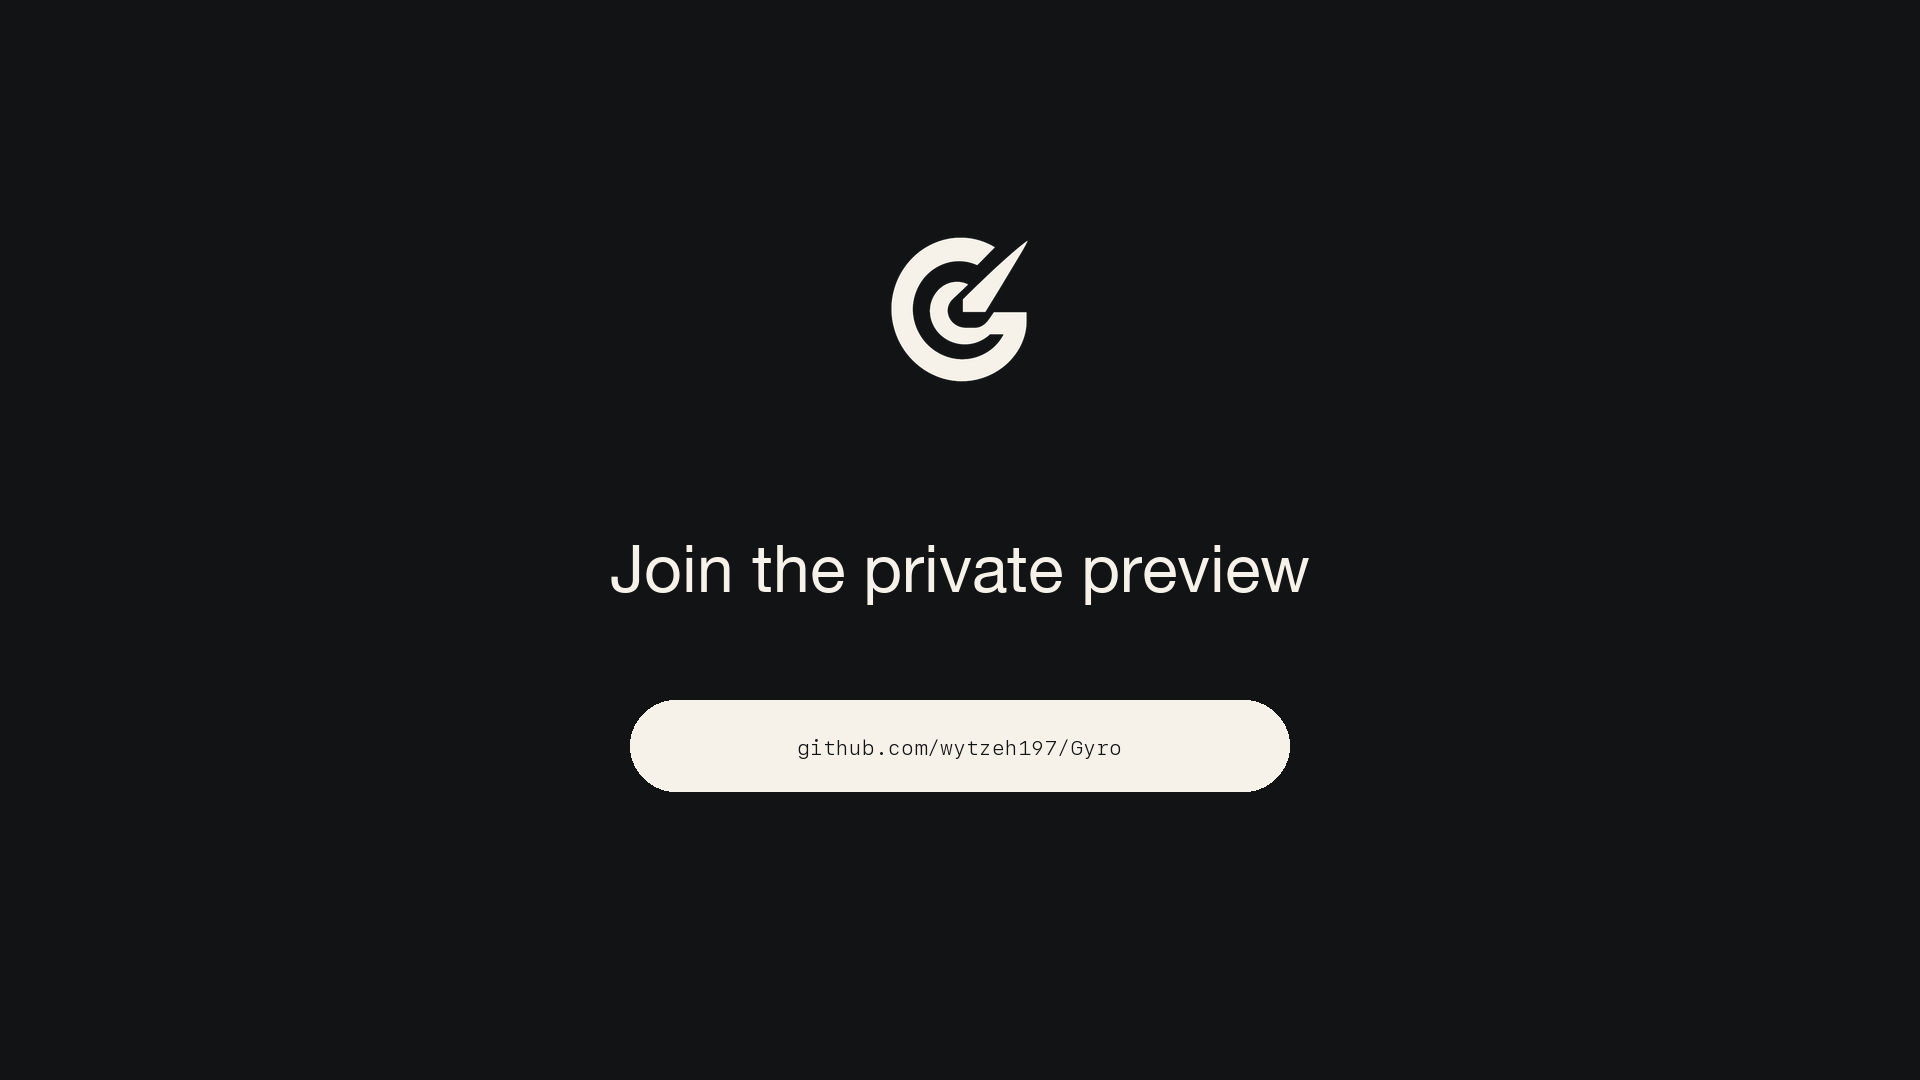
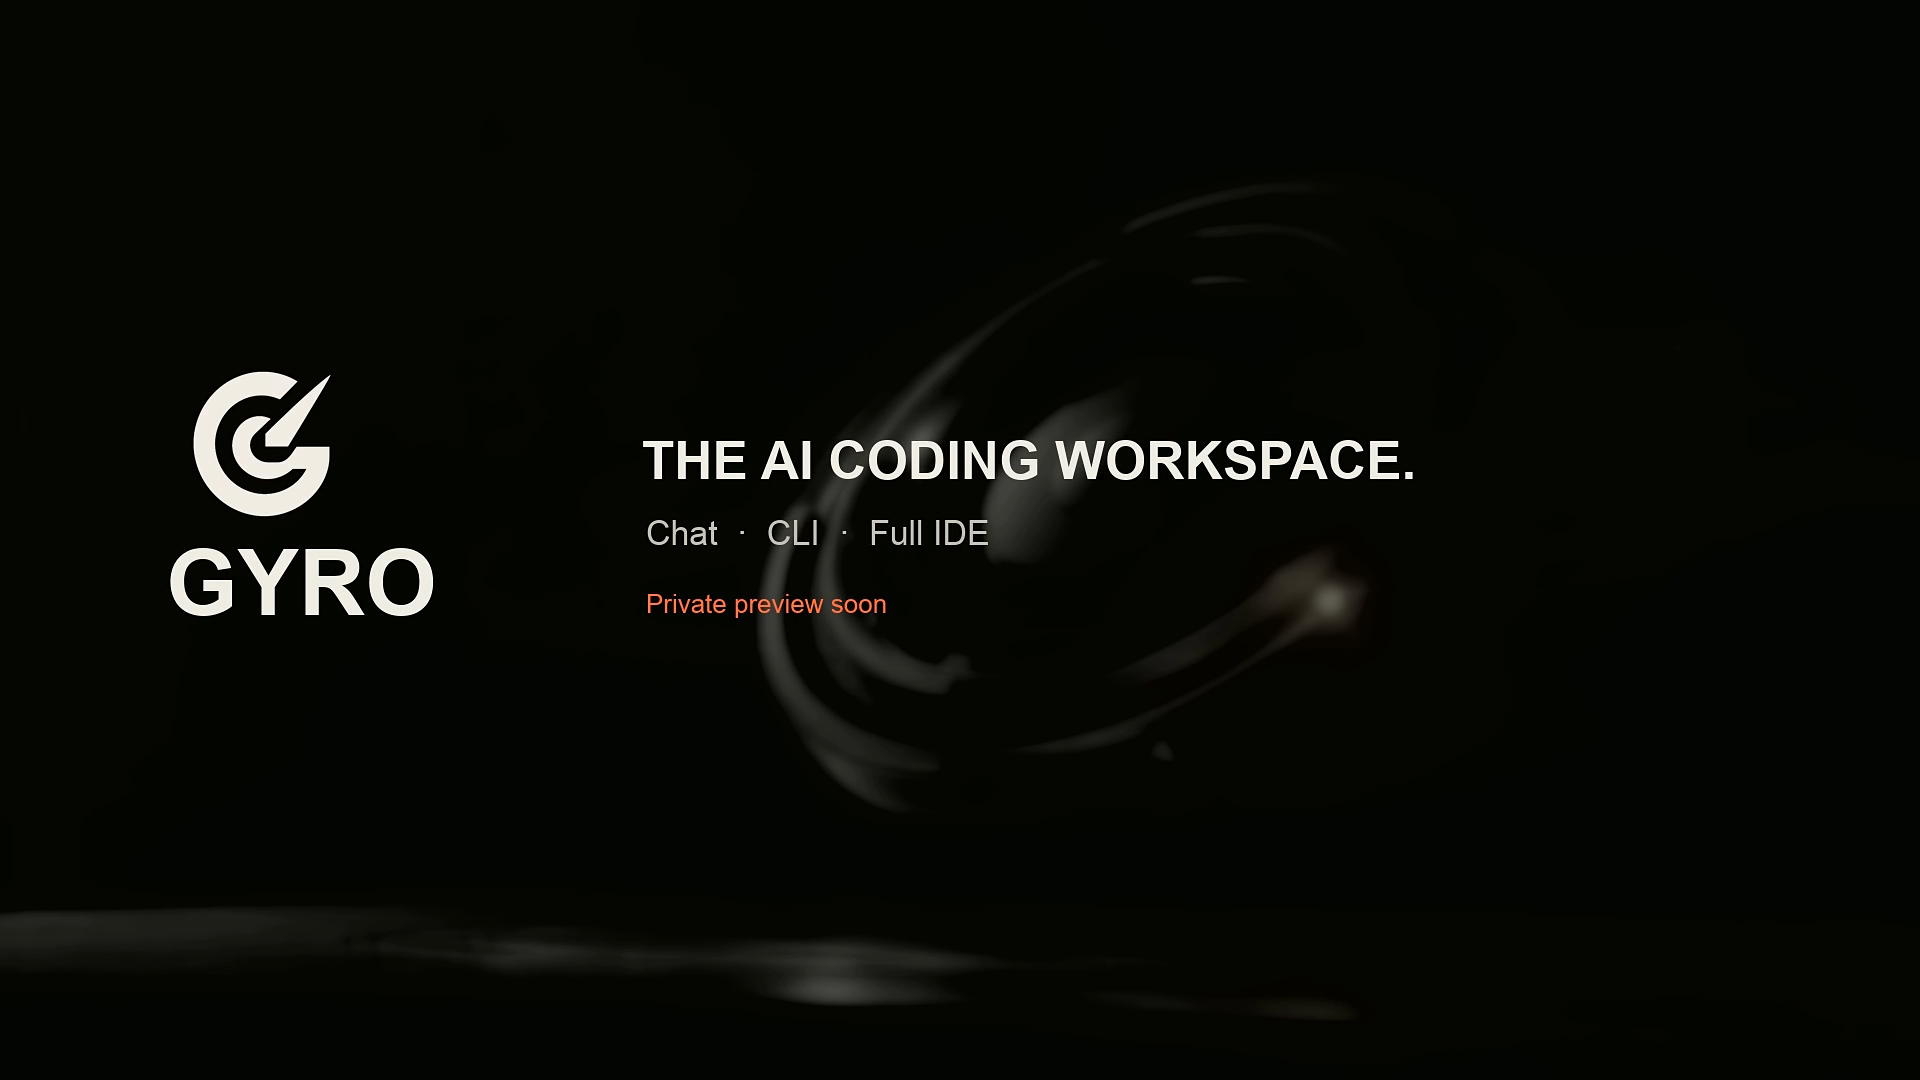
commit

Changed region(s): [[0.3125, 0.2139, 0.75, 0.7333], [0.0625, 0.3361, 0.25, 0.5806], [0.4062, 0.8861, 0.4688, 0.9472]]

diff --git a/docs/media/launch/README.md b/docs/media/launch/README.md
@@ -5,21 +5,30 @@ Gyro launch film.
 
 ## Deliverables
 
-| File | Purpose | Delivery specification |
-| --- | --- | --- |
-| `gyro-launch-film.mp4` | GitHub, launch-page, and social web master | 22 seconds, 1920×1080, 30 fps, H.264 High Profile, yuv420p, BT.709, silent |
-| `gyro-launch-poster.png` | Repository preview and launch thumbnail | 1920×1080 PNG |
+| File                     | Purpose                                    | Delivery specification                                                         |
+| ------------------------ | ------------------------------------------ | ------------------------------------------------------------------------------ |
+| `gyro-launch-film.mp4`   | GitHub, launch-page, and social web master | 22 seconds, 1920×1080, 30 fps, H.264 High Profile, yuv420p, BT.709, AAC stereo |
+| `gyro-launch-poster.png` | Repository preview and launch thumbnail    | 1920×1080 PNG                                                                  |
 
-The web master is intentionally silent. It contains no music, voiceover, sound
-effects, captions, or audio stream.
+The web master uses an original procedural sound bed with transition whooshes
+and low-frequency impacts. It contains no licensed music or voiceover.
 
-## Product and rights provenance
+## Creative direction and rights provenance
 
-- Product footage uses current first-party Gyro Chat, CLI, IDE, Permissions,
-  and Providers captures.
+- The teaser deliberately contains no product screenshots or interface footage.
+- Cinematic 3D plates and abstract interface fragments introduce Gyro's
+  connected Chat, CLI, and full IDE modes without revealing the interface.
 - The logo comes from `packages/ui/src/assets/gyro-logo-mark.png`.
-- Motion, typography, and compositing are original to Gyro.
-- No stock, externally licensed, or generated media is included.
+- Motion, typography, compositing, and procedural sound design are original to
+  Gyro.
+- The three visual plates in `plates/` were generated specifically for Gyro and
+  then art-directed, cropped, graded, and composited locally. No stock or
+  externally licensed media is included.
+
+## Rendering
+
+Run `pnpm launch:teaser` from the repository root to rebuild both deliverables.
+The renderer requires FFmpeg and the standard macOS Arial fonts.
 
 ## Repository policy
 
@@ -31,5 +40,5 @@ workflow first.
 
 Current SHA-256 checksums:
 
[4 lines of base64/hex data omitted]

diff --git a/README.md b/README.md
@@ -21,8 +21,9 @@ is pre-launch foundation work for the first private/developer preview:
 
 [![Watch the Gyro launch film](docs/media/launch/gyro-launch-poster.png)](docs/media/launch/gyro-launch-film.mp4)
 
-The current launch film is a 22-second, silent product reveal built from the
-real Chat, CLI, IDE, Permissions, and Providers surfaces. Watch the
+The current launch film is a 22-second cinematic teaser built from original
+motion, procedural sound design, and abstract product fragments rather than
+interface screenshots. Watch the
 [repository master](docs/media/launch/gyro-launch-film.mp4), or see the
 [launch-film notes](docs/media/launch/README.md) for delivery details.
 

diff --git a/docs/launch.md b/docs/launch.md
@@ -5,7 +5,7 @@
 The canonical repository copy of the current launch film lives with the launch
 documentation:
 
-- [Watch the 22-second silent launch film](media/launch/gyro-launch-film.mp4)
+- [Watch the 22-second cinematic launch film](media/launch/gyro-launch-film.mp4)
 - [Open the launch poster](media/launch/gyro-launch-poster.png)
 - [Read the asset and delivery notes](media/launch/README.md)
 